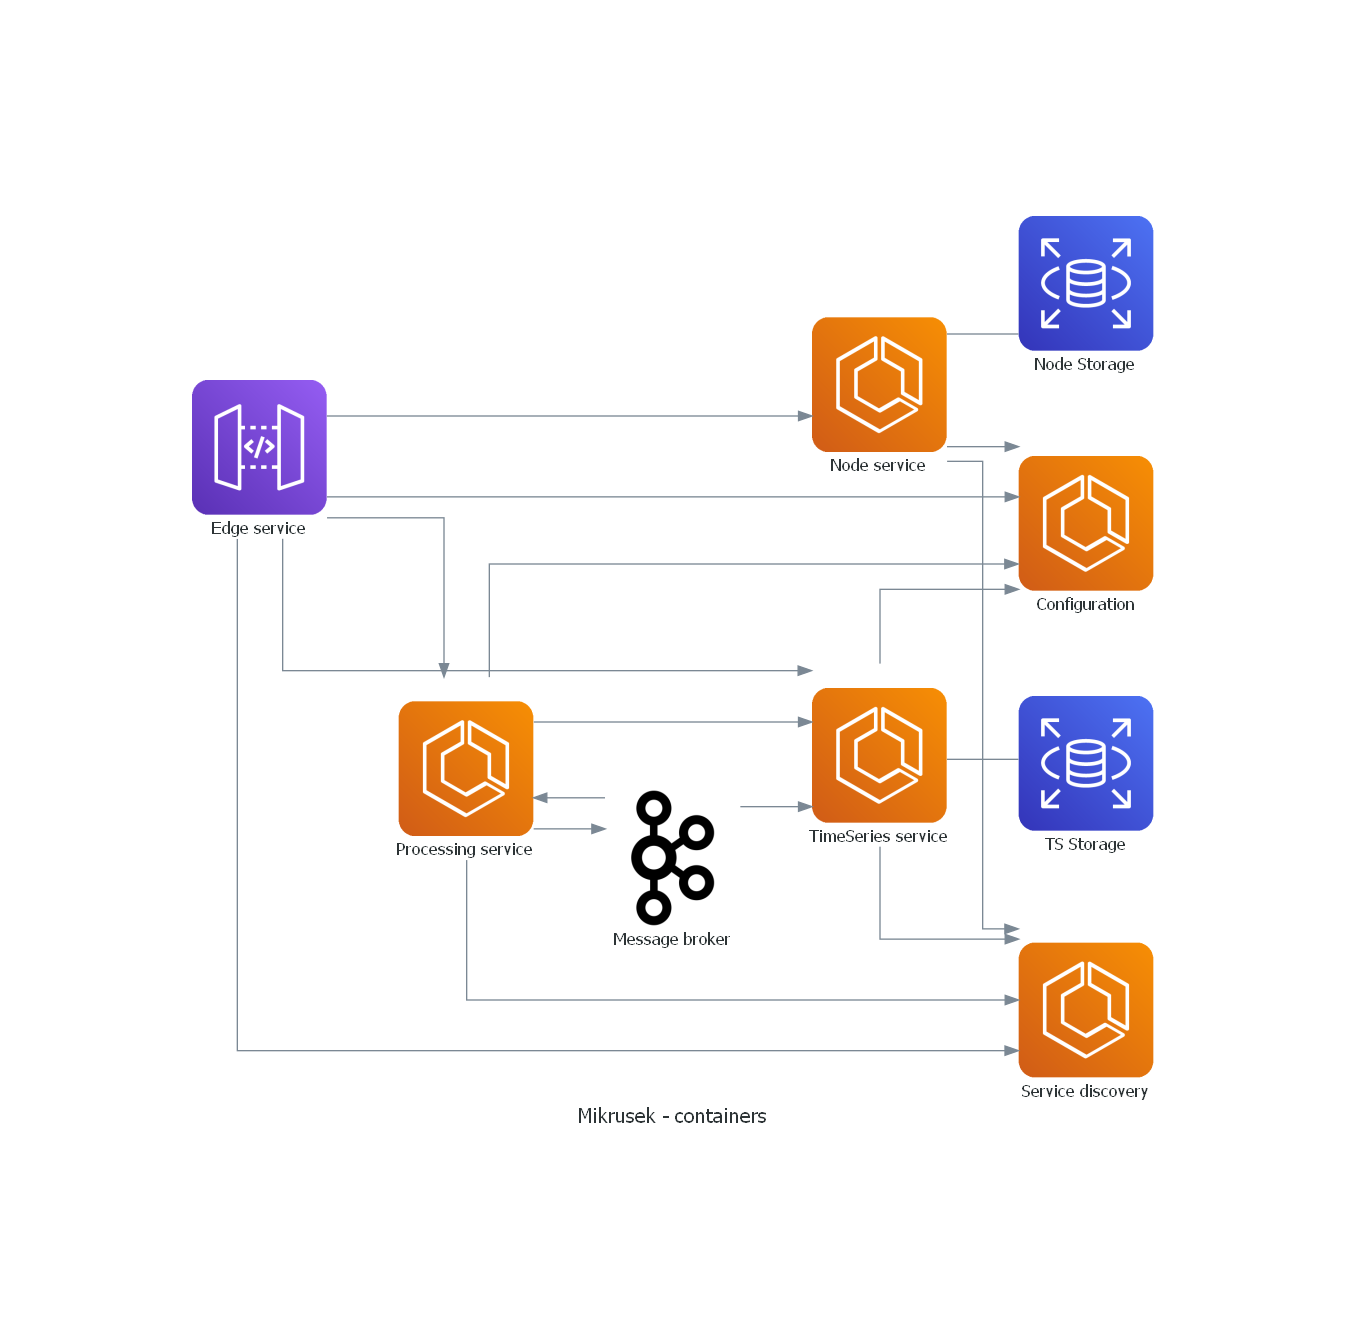
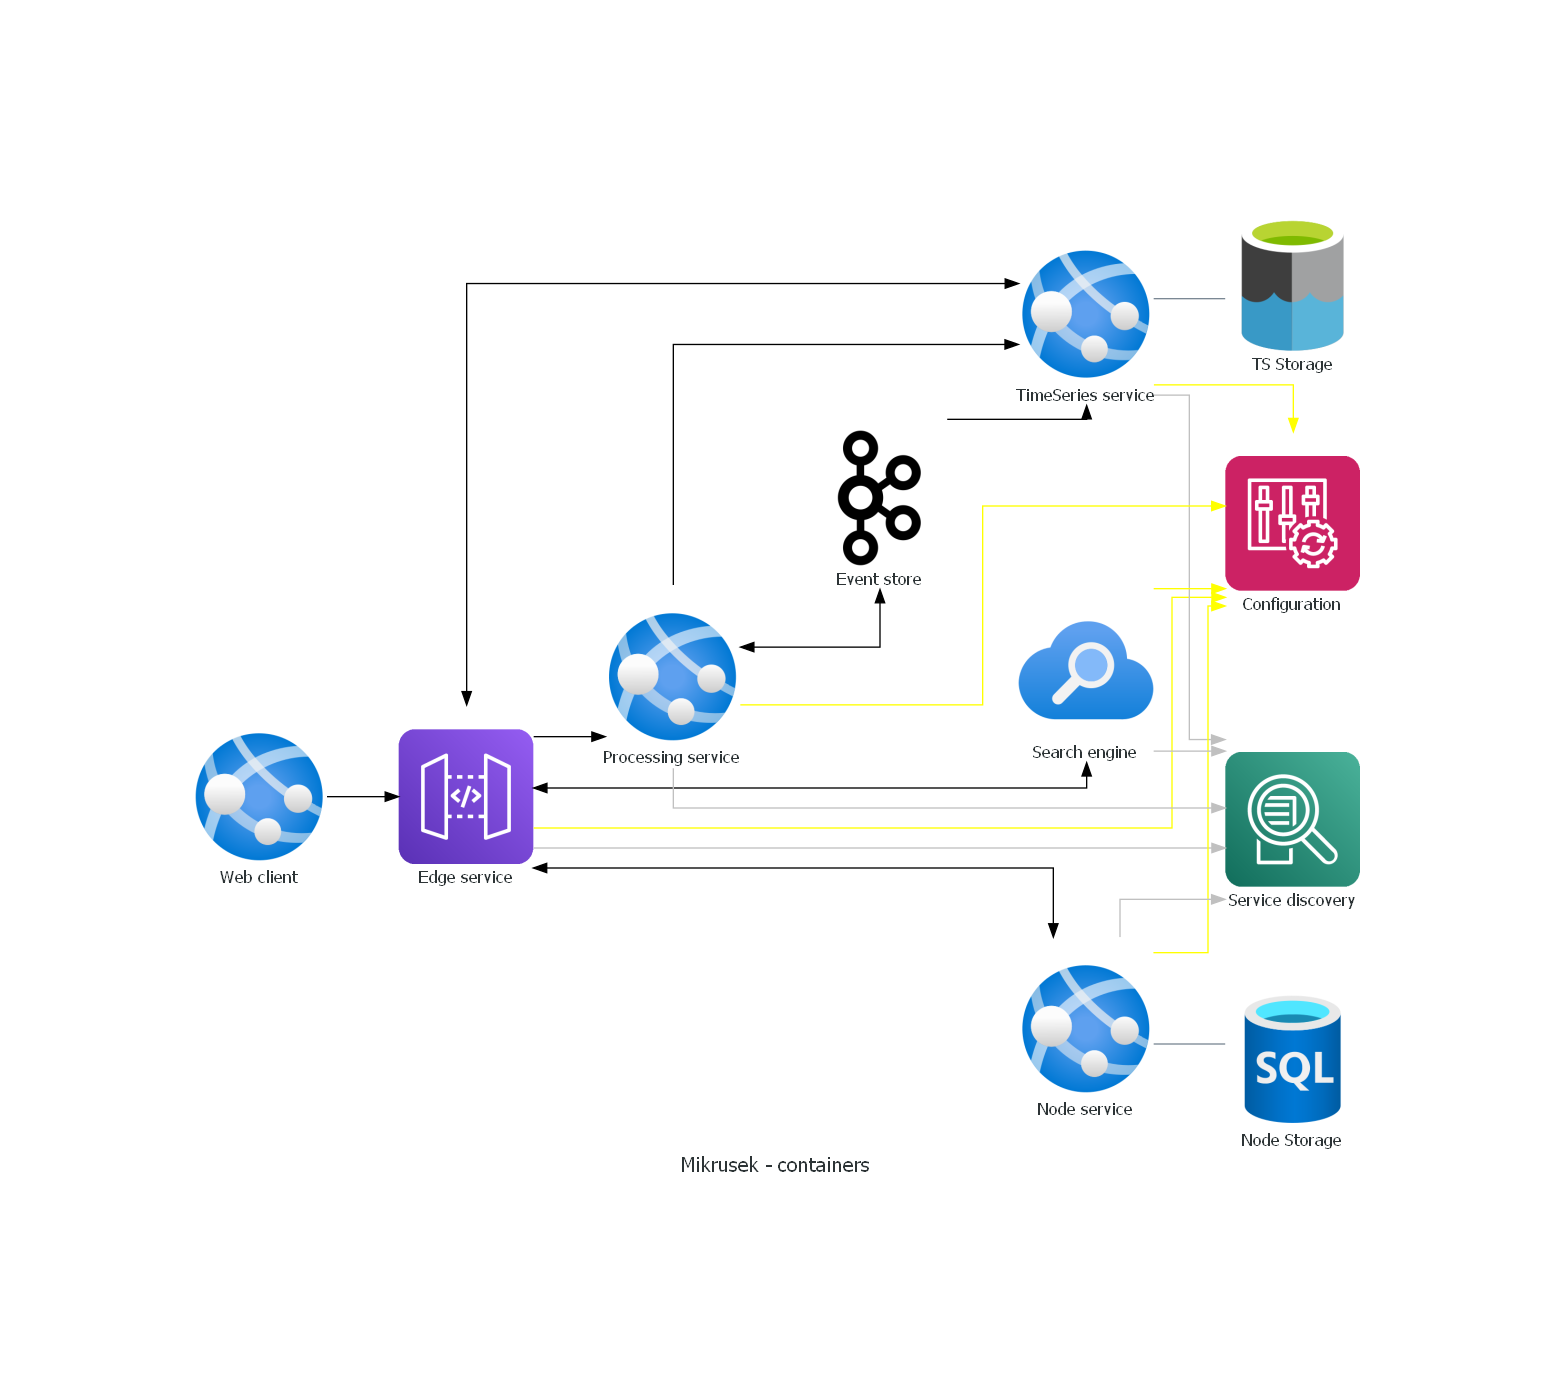
container diagram modifications

diff --git a/design/container.py b/design/container.py
@@ -1,22 +1,33 @@
-from diagrams import Diagram, Cluster
-from diagrams.aws.compute import ECS
-from diagrams.aws.database import RDS
+from diagrams import Diagram, Cluster, Edge
+from diagrams.alibabacloud.compute import ElasticSearch
+from diagrams.aws.management import Config
+from diagrams.aws.migration import ADS
 from diagrams.aws.network import APIGateway
+from diagrams.azure.database import SQLDatabases, DataLake
+from diagrams.azure.web import AppServices, Search
 from diagrams.onprem.queue import Kafka
 
 with Diagram("Mikrusek - containers", show=False, filename="./assets/container"):
     apiGateway = APIGateway("Edge service")
-    timeService = ECS("TimeSeries service")
-    nodeService = ECS("Node service")
+    timeService = AppServices("TimeSeries service")
+    nodeService = AppServices("Node service")
+    webBrowser = AppServices("Web client")
 
-    timeSeriesDatabase = RDS("TS Storage")
-    nodeDatabase = RDS("Node Storage")
+    timeSeriesDatabase = DataLake("TS Storage")
+    nodeDatabase = SQLDatabases("Node Storage")
 
-    processingService = ECS("Processing service")
-    kafka = Kafka("Message broker")
+    processingService = AppServices("Processing service")
+    kafka = Kafka("Event store")
 
-    configurationService = ECS("Configuration")
-    serviceDiscovery = ECS("Service discovery")
+    searchEngine = Search("Search engine")
+
+    configurationService = Config("Configuration")
+    serviceDiscovery = ADS("Service discovery")
+
+    readConfigEdge = Edge(color='yellow')
+    serviceDiscoveryEdge = Edge(color='grey')
+    standartBiEdge = Edge(color='black', forward=True, reverse=True)
+    standartEdge = Edge(color='black', forward=True)
 
     with Cluster("TS Cluster"):
         ts_cluster = timeService
@@ -26,20 +37,25 @@ with Diagram("Mikrusek - containers", show=False, filename="./assets/container")
         node_cluster = nodeService
         node_cluster - nodeDatabase
 
-    apiGateway >> ts_cluster
-    apiGateway >> node_cluster
-    apiGateway >> processingService >> kafka >> timeService
-    kafka >> processingService
-    processingService >> timeService
+    apiGateway >> standartBiEdge >> ts_cluster
+    apiGateway >> standartBiEdge >> node_cluster
+    apiGateway >> standartEdge >> processingService >> standartBiEdge >> kafka >> standartEdge >> timeService
+    processingService >> standartEdge >> timeService
 
-    apiGateway >> configurationService
-    apiGateway >> serviceDiscovery
+    webBrowser >> standartEdge >> apiGateway
 
-    timeService >> configurationService
-    timeService >> serviceDiscovery
+    apiGateway >> readConfigEdge >> configurationService
+    apiGateway >> serviceDiscoveryEdge >> serviceDiscovery
 
-    processingService >> configurationService
-    processingService >> serviceDiscovery
+    timeService >> readConfigEdge >> configurationService
+    timeService >> serviceDiscoveryEdge >> serviceDiscovery
 
-    nodeService >> configurationService
-    nodeService >> serviceDiscovery
+    processingService >> readConfigEdge >> configurationService
+    processingService >> serviceDiscoveryEdge >> serviceDiscovery
+
+    nodeService >> readConfigEdge >> configurationService
+    nodeService >> serviceDiscoveryEdge >> serviceDiscovery
+
+    apiGateway >> standartBiEdge >> searchEngine
+    searchEngine >> readConfigEdge >> configurationService
+    searchEngine >> serviceDiscoveryEdge >> serviceDiscovery

diff --git a/design/main_context.py b/design/main_context.py
@@ -2,7 +2,7 @@ from diagrams import Diagram, Cluster
 from diagrams.c4 import System
 
 with Diagram("Mikrusek - context diagram", show=False, filename="./assets/context"):
-    webbrowser = System(name="Web client", external=True)
+    webbrowser = System(name="Web client", external=False)
     thirdPartyClient = System("3-rd party application", external=True)
     mobileClient = System("Mobile", external=True)
 
